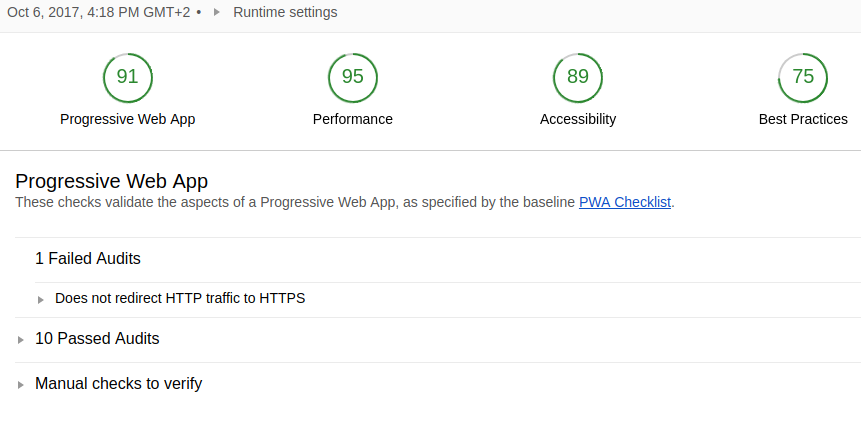
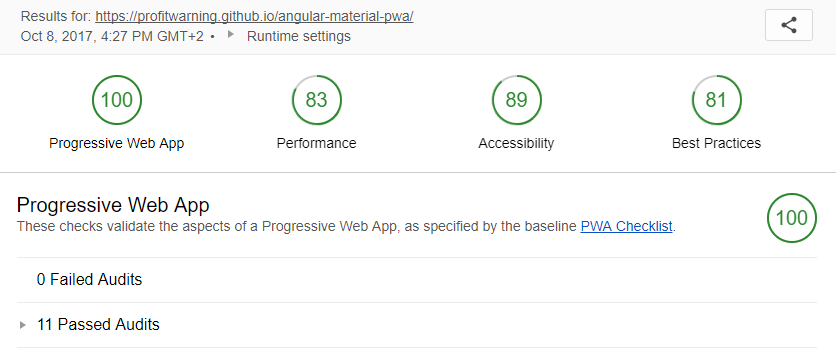
update * readme * test image from github.io

diff --git a/README.md b/README.md
@@ -1,11 +1,11 @@
 # Angular Material PWA
 This is a PWA ready Angular Material Boilerplate project.
 
+[Preview](https://profitwarning.github.io/angular-material-pwa/)
+
 ## Test PWA
 
 ![alt](lighthouse.PNG)
-
-All tests pass, but I was too lazy to setup ssl.
 
 Test was performed by [GoogleChrome/lighthouse](https://github.com/GoogleChrome/lighthouse)
 
